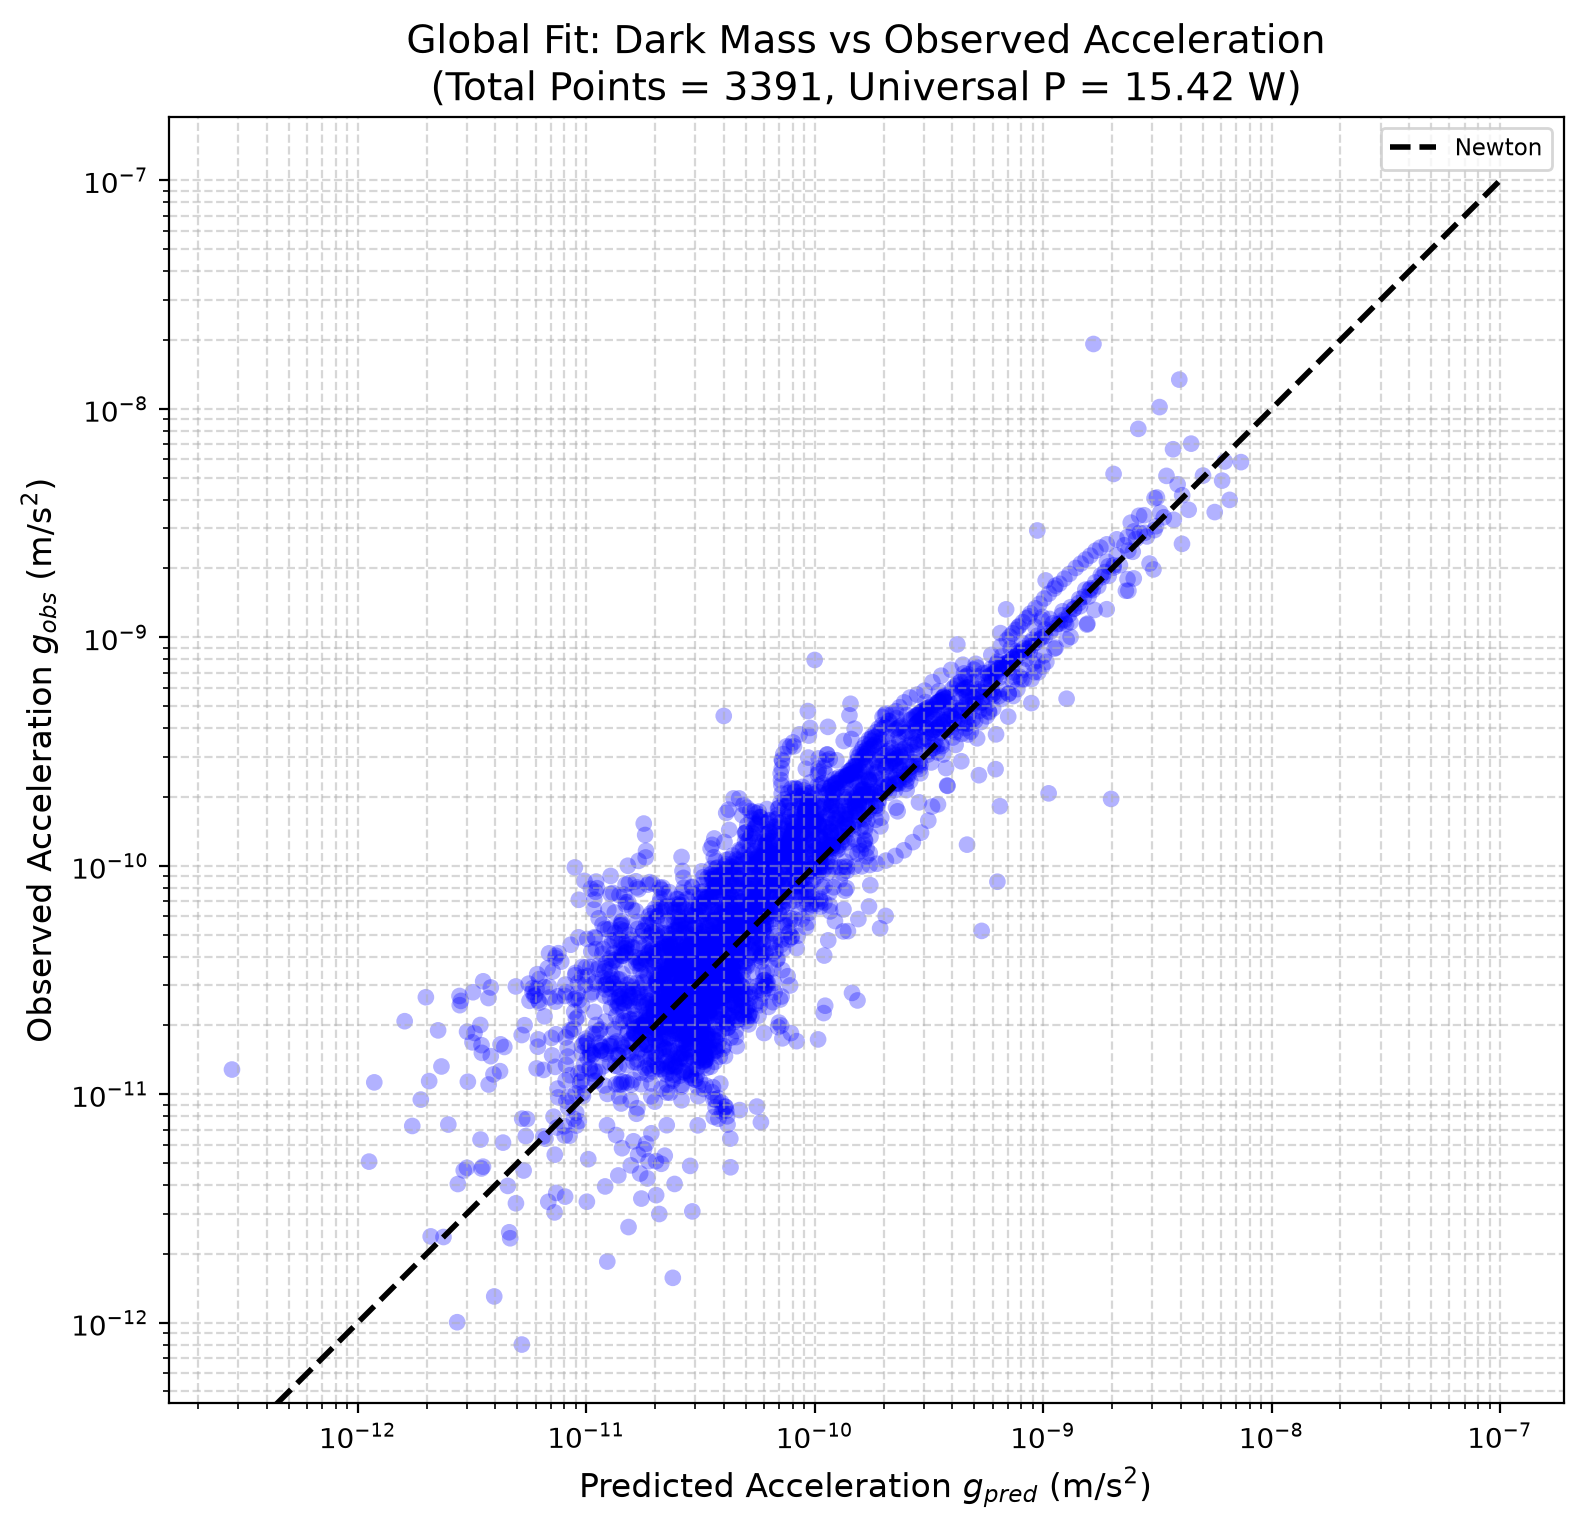
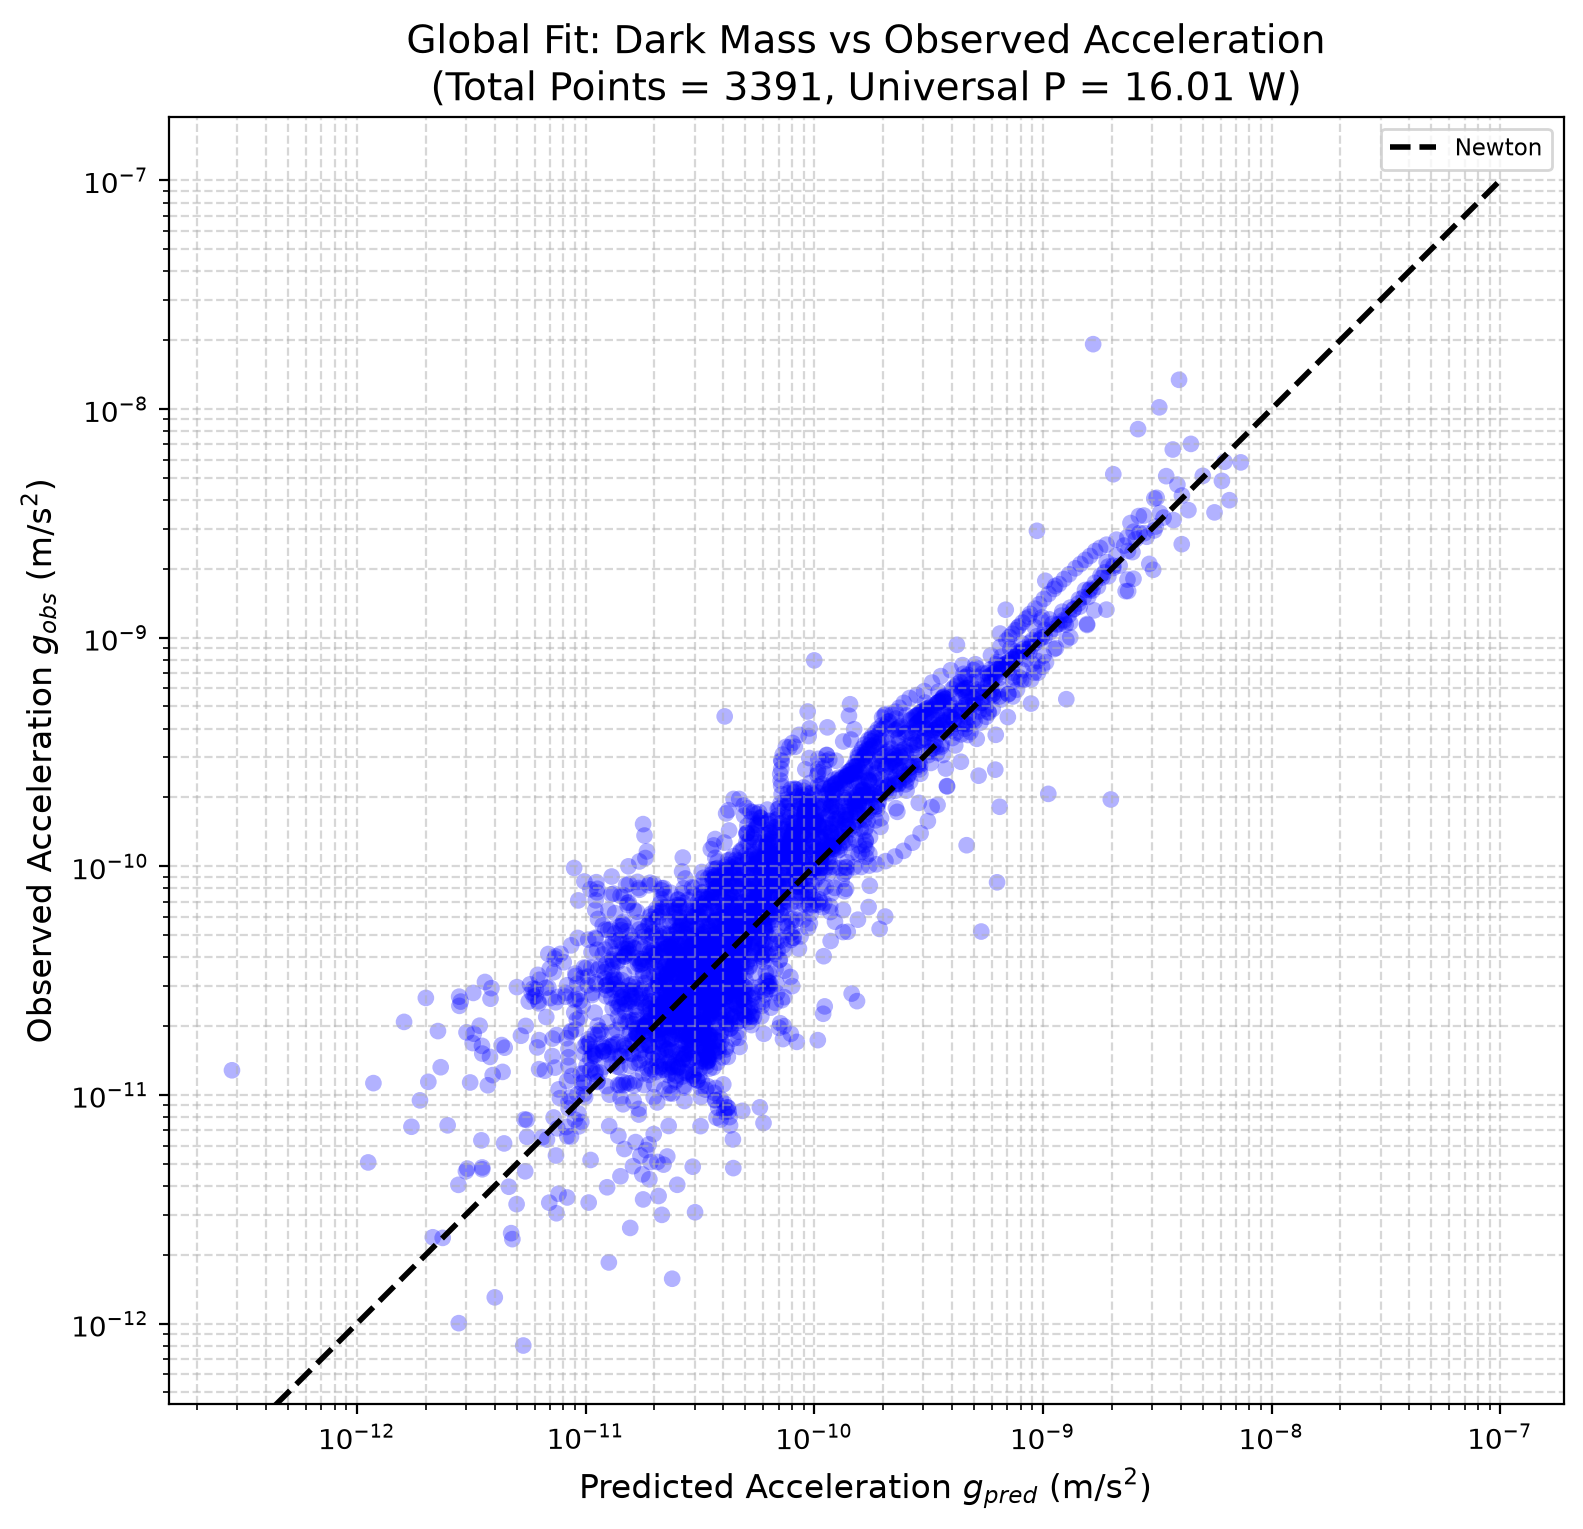
this is perhaps almost working - simple multiply on gas densities - fit not as good but better than I thought

diff --git a/sparc/sparc_dm_brute.py b/sparc/sparc_dm_brute.py
@@ -21,6 +21,9 @@ NUM_LAYERS_Z = 11
 NUM_R_BINS = 77  # Added for continuous 3D volume integration
 USE_EXPONENTIAL_DISK = True
 
+# a silly model where we just scale V_gas
+USE_VGAS_MULT_MODEL = False
+
 def get_sparc_galaxy_scale_height(radius_kpc, R_d):
     """Calculates the vertical disk scale height (thickness) of a SPARC galaxy."""
     z_d = 0.196 * (R_d ** 0.633)
@@ -230,17 +233,30 @@ def global_linear_err(P_test):
     total_linear = 0
     for gal in galaxies:
         g = galaxies[gal]
-        V_dm_test_sq = P_test * g['V_dm_sq_base_kms']
+        if USE_VGAS_MULT_MODEL:
+            V_dm_test_sq = P_test * g['Vgas_test']**2
+        else:
+            V_dm_test_sq = P_test * g['V_dm_sq_base_kms']
         
         V_bar_sq_kms = np.clip(g['Vdisk']**2 + g['Vbul']**2 + g['Vgas'] * np.abs(g['Vgas']), 0, None)
-        V_tot_test = np.sqrt(V_bar_sq_kms + V_dm_test_sq)
+        V_tot_test = np.sqrt(np.fabs(V_bar_sq_kms + V_dm_test_sq))
         
-        linear_err = np.sum(np.abs(g['Vobs'] - V_tot_test) / g['eVobs'])
+        linear_err = 0
+        if np.any(g['eVobs'] == 0):
+            print(f"SKIPPPING GALAXY {gal}")
+            linear_err = 0
+        else:
+            linear_err = np.sum(np.fabs(g['Vobs'] - V_tot_test))
+        if np.isnan(linear_err):
+            print(f"SKIPPPING GALAXY {gal}")
+            linear_err = 0
+        
         total_linear += linear_err
         
+    print(f"Total Linear Error: {total_linear}")
     return total_linear
 
-result = minimize_scalar(global_linear_err, bounds=(2.0, 100.0), method='bounded')
+result = minimize_scalar(global_linear_err, bounds=(2.0, 1000.0), method='bounded')
 best_global_P = result.x
 min_linear_err = result.fun
 
@@ -250,13 +266,17 @@ mond_chi2_total = 0
 
 for gal in galaxies:
     g = galaxies[gal]
-    V_dm_final_kms = np.sqrt(best_global_P * g['V_dm_sq_base_kms'])
+    if USE_VGAS_MULT_MODEL:
+        V_dm_final_kms = np.sqrt(best_global_P * g['Vgas_test'])
+    else:
+        V_dm_final_kms = np.sqrt(best_global_P * g['V_dm_sq_base_kms'])
+
     V_bar_sq_kms = np.clip(g['Vdisk']**2 + g['Vbul']**2 + g['Vgas'] * np.abs(g['Vgas']), 0, None)
-    V_tot_final_kms = np.sqrt(V_bar_sq_kms + V_dm_final_kms**2)
+    V_tot_final_kms = np.sqrt(np.fabs(V_bar_sq_kms + V_dm_final_kms**2))
     
     dm_chi2_total += np.sum(((g['Vobs'] - V_tot_final_kms) / g['eVobs'])**2)
     
-    mond_linear_total += np.sum(np.abs(g['Vobs'] - g['V_mond_kms']) / g['eVobs'])
+    mond_linear_total += np.sum(np.abs(g['Vobs'] - g['V_mond_kms']))
     mond_chi2_total += np.sum(((g['Vobs'] - g['V_mond_kms']) / g['eVobs'])**2)
 
 print(f"\n--- GLOBAL OPTIMIZATION RESULTS ---")
@@ -276,7 +296,11 @@ for gal in galaxies:
     g = galaxies[gal]
     
     # Point-matching for error tracking
-    V_dm_final_obs_kms = np.sqrt(best_global_P * g['V_dm_sq_base_kms'])
+    if USE_VGAS_MULT_MODEL:
+        V_dm_final_obs_kms = np.sqrt(best_global_P * g['Vgas_test'])
+    else:
+        V_dm_final_obs_kms = np.sqrt(best_global_P * g['V_dm_sq_base_kms'])
+
     V_bar_sq_obs_kms = np.clip(g['Vdisk']**2 + g['Vbul']**2 + g['Vgas'] * np.abs(g['Vgas']), 0, None)
     V_tot_final_obs_kms = np.sqrt(V_bar_sq_obs_kms + V_dm_final_obs_kms**2)
     
@@ -348,7 +372,12 @@ for gal in galaxies:
     R_m = g['R'] * kpc_to_m
     valid = R_m > 0 
     
-    V_dm_final_sq = best_global_P * g['V_dm_sq_base_kms']
+    if USE_VGAS_MULT_MODEL:
+        V_dm_final_sq = best_global_P * g['Vgas_test']
+    else:
+        V_dm_final_sq = best_global_P * g['V_dm_sq_base_kms']
+
+
     V_bar_sq_kms = np.clip(g['Vdisk']**2 + g['Vbul']**2 + np.sign(g['Vgas'])*(g['Vgas']**2), 0, None)
     
     V_tot_final_sq_ms = (V_bar_sq_kms + V_dm_final_sq) * (1000.0**2)
